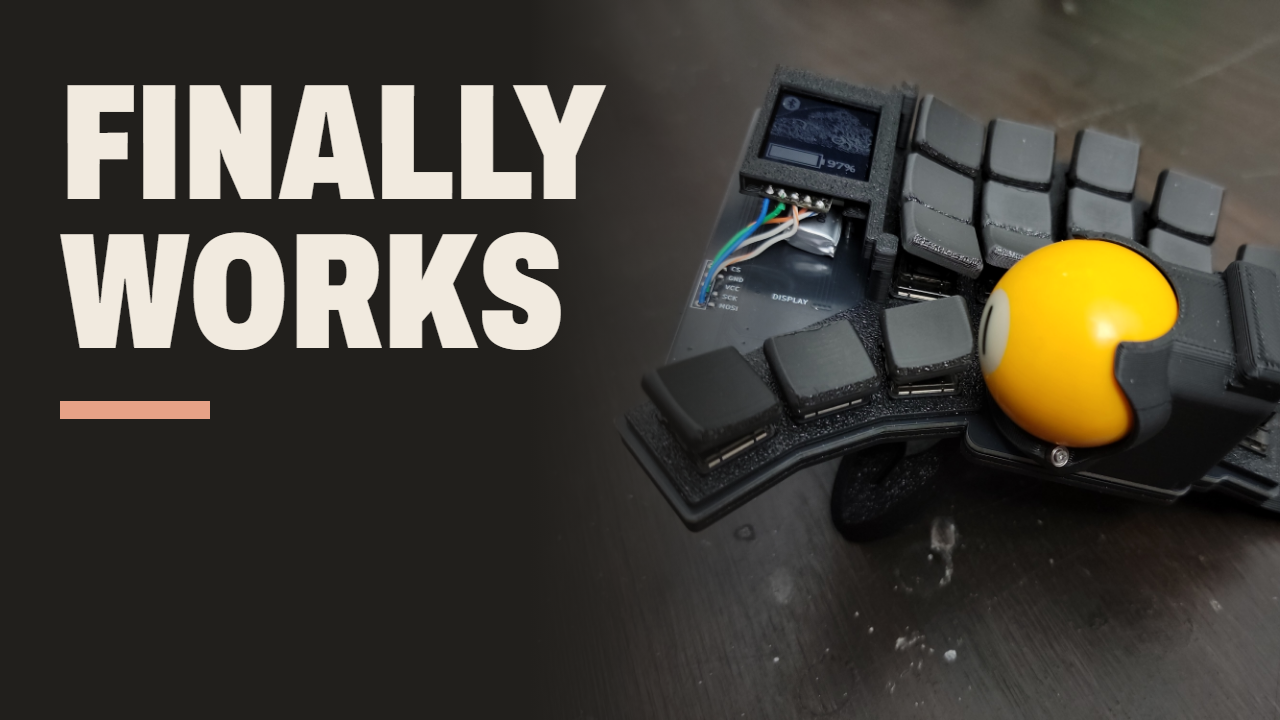
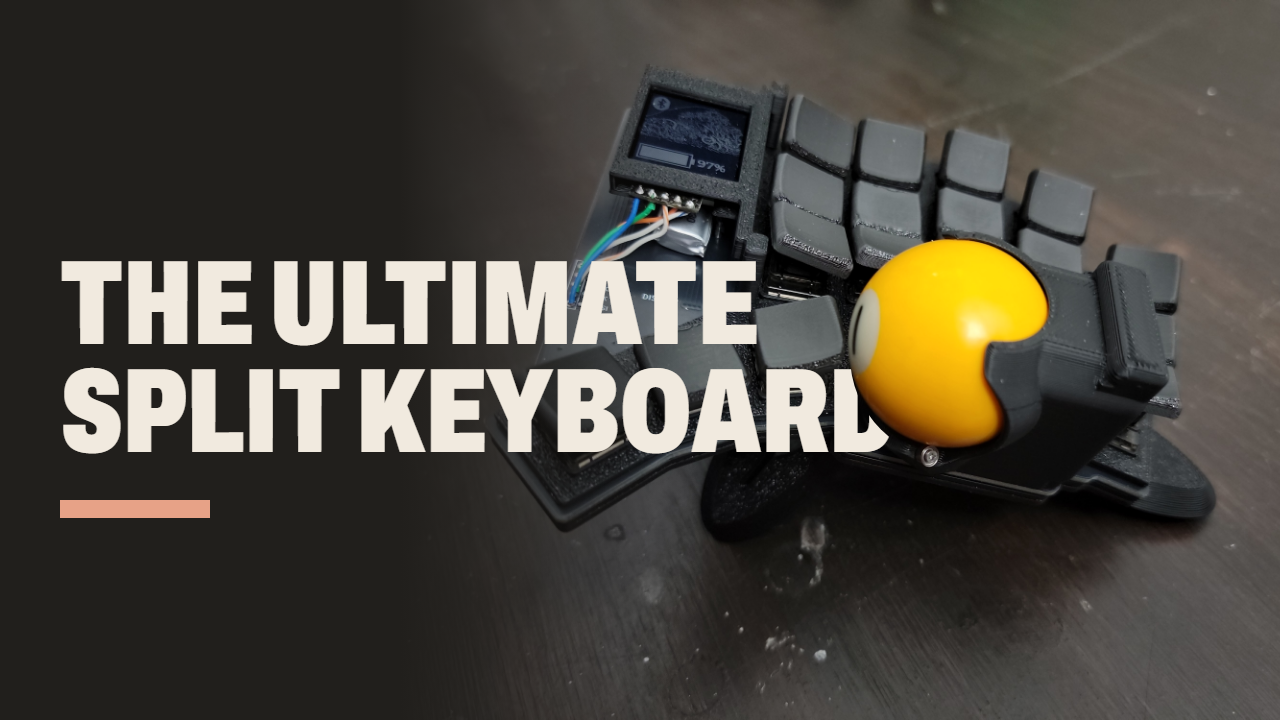
Use 'The ultimate split keyboard' draft thumbnail

diff --git a/src/data/videos.ts b/src/data/videos.ts
@@ -6,7 +6,7 @@ export const videos: { title: string; url: string; thumb: string; alt: string; d
     title: 'The Tempest Dux: I Finally Built My Ideal Keyboard',
     url: channelUrl,
     thumb: '/videos/tempest-dux.png',
-    alt: 'Tempest Dux keyboard half with a yellow trackball, captioned "Finally works".',
+    alt: 'Tempest Dux keyboard half with a yellow trackball, captioned "The ultimate split keyboard".',
     draft: true,
   },
 ];
